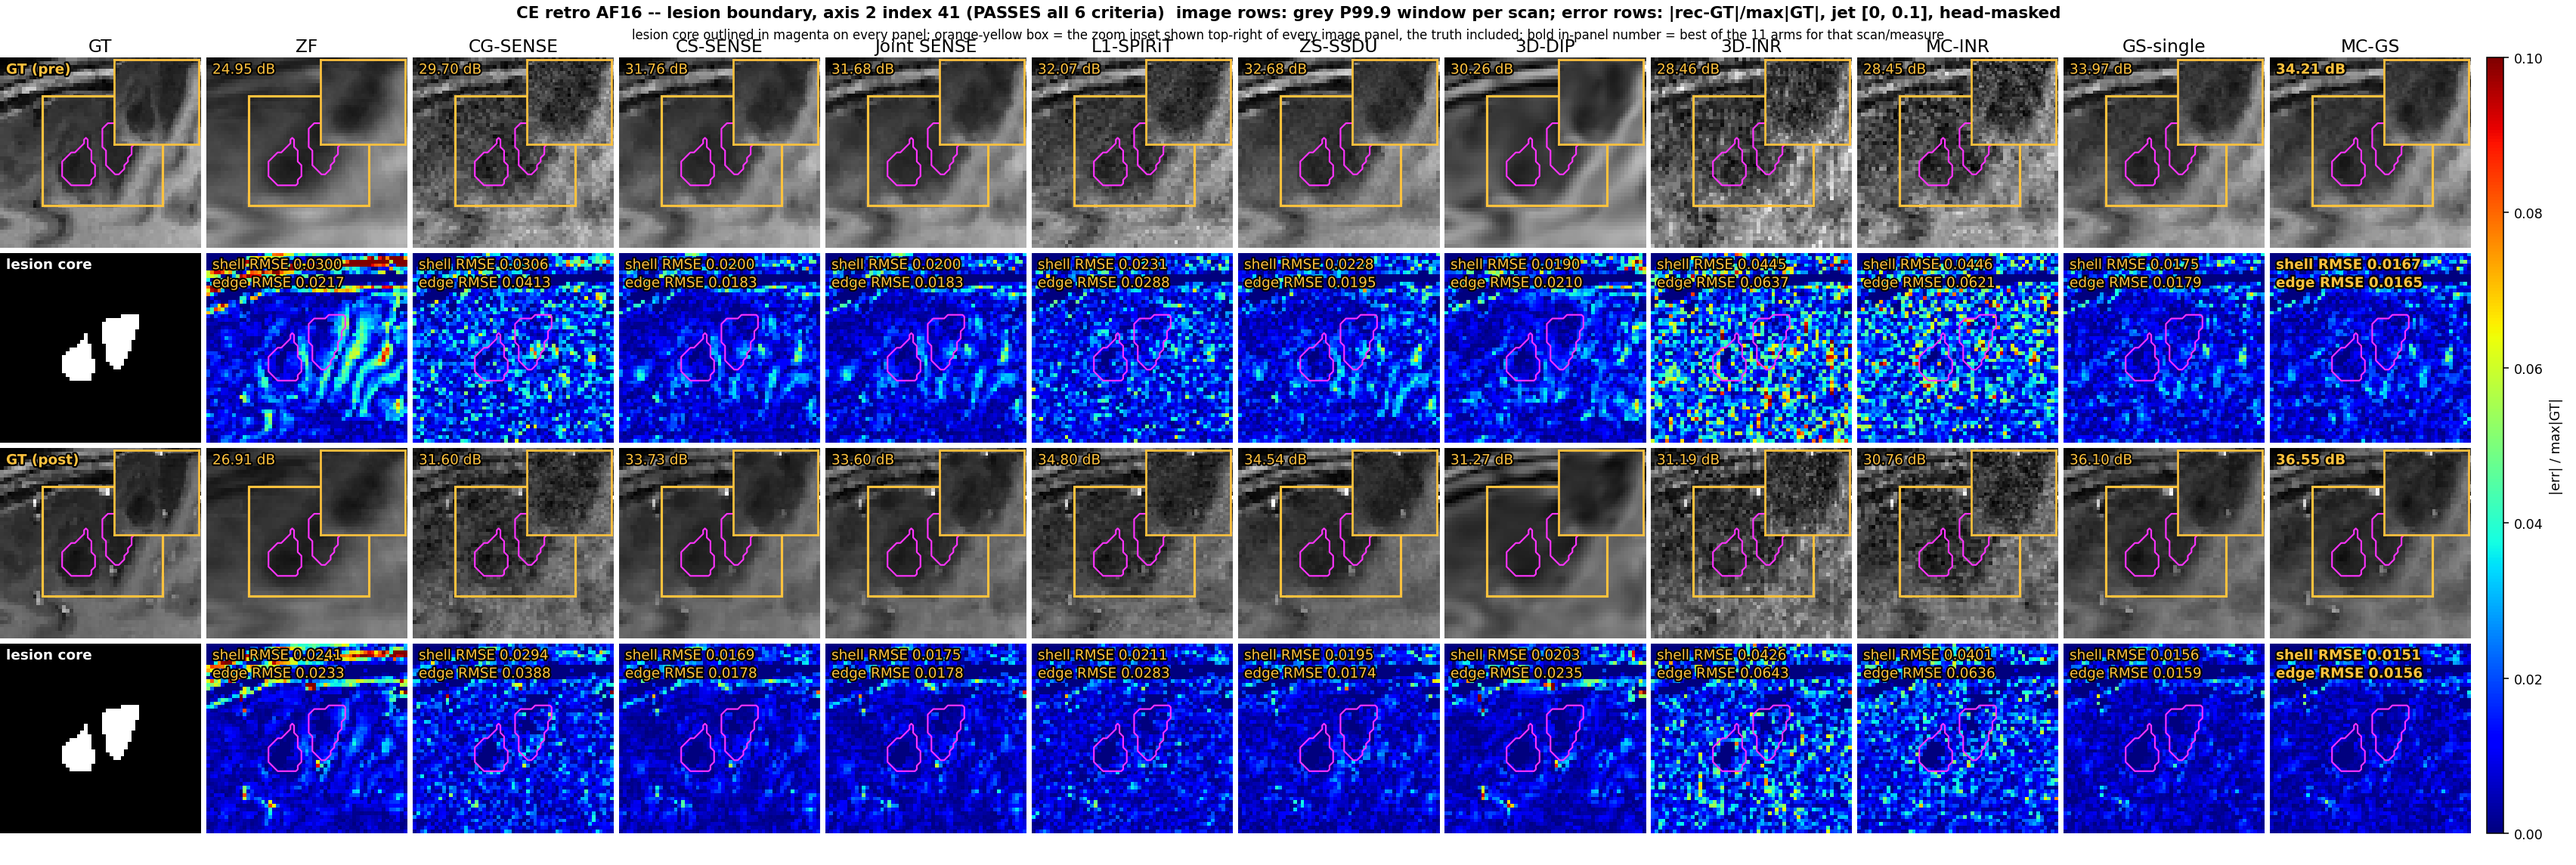
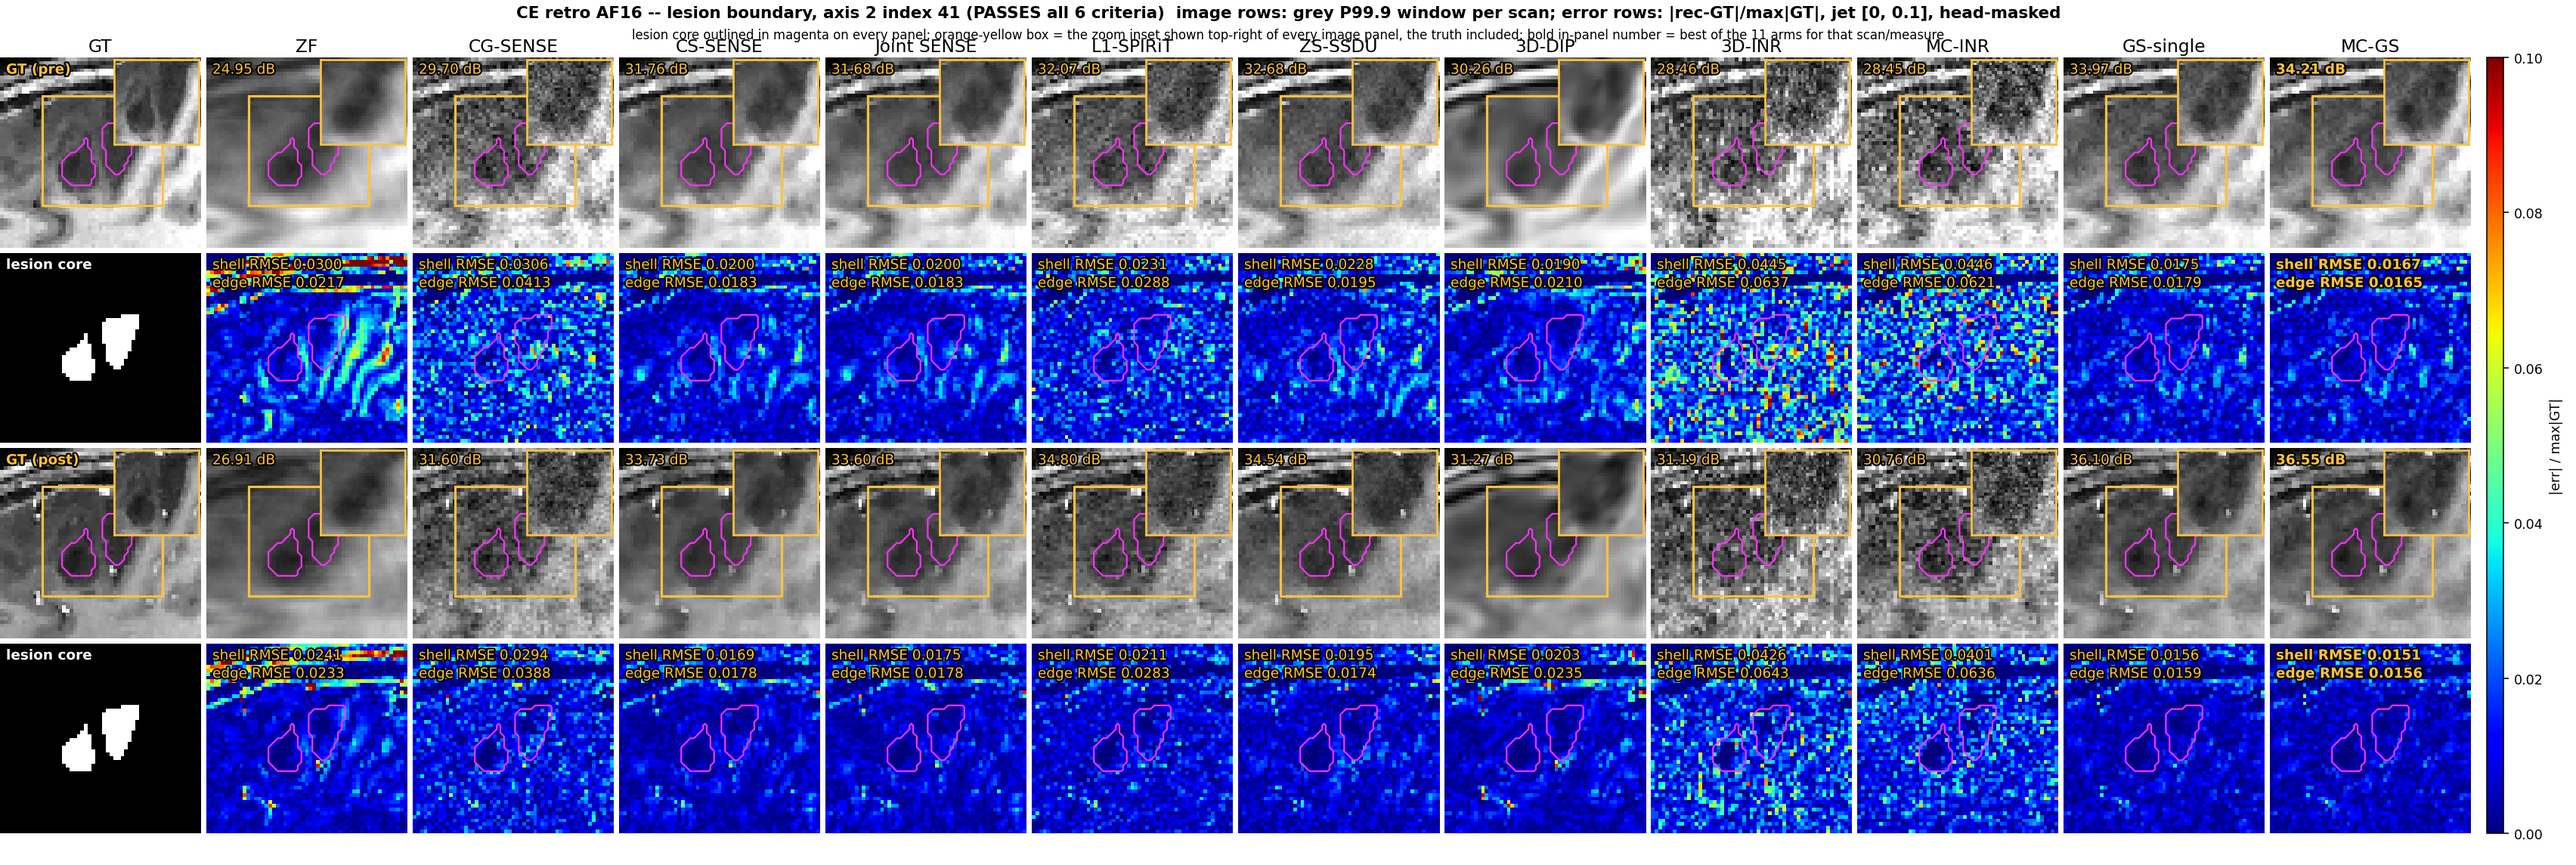
plain/enhanced: session summary of the prospective and retrospective lines, lesion figure at 1.5x

Changed region(s): [[0.0, 0.5197, 0.9642, 0.7642], [0.0, 0.0611, 0.9642, 0.3057]]

diff --git a/ce_retro_cssense_af16/scripts/best_slice_lesion.py b/ce_retro_cssense_af16/scripts/best_slice_lesion.py
@@ -73,6 +73,9 @@ K_SHELL = 2
 MIN_SHELL = 50
 MIN_HEAD = 2000
 MCGS, GSSINGLE = "gs_joint", "gs_single"
+# display only: the grey window top is divided by this, so >1 is brighter. Every metric is computed on the
+# unscaled data (user chose 1.5 for the figures of record, 2026-09-18). Override with RETRO_BRIGHTNESS.
+BRIGHTNESS = float(os.environ.get("RETRO_BRIGHTNESS", "1.5"))
 MEASURES = [("psnr", True), ("rmse", False), ("gerr", False)]   # (name, higher_is_better)
 
 
@@ -292,7 +295,7 @@ def make_figure(row, keys, gt, head, gmax, vols, core, shell):
     for r_i, (c, kind) in enumerate(panel_rows):
         y = top_in + r_i * (ph + gap)
         g2 = crop(gt[c][sl])
-        vmax_c = float(np.quantile(g2, 0.999))
+        vmax_c = float(np.quantile(g2, 0.999)) / BRIGHTNESS
         h2 = crop(head[c][sl].astype(float)) > 0.5
         for j in range(ncol):
             x = j * (pw + gap)

diff --git a/ce_retro_cssense_af16/SESSION_SUMMARY_2026-09-18.md b/ce_retro_cssense_af16/SESSION_SUMMARY_2026-09-18.md
@@ -1,0 +1,109 @@
+# 平扫/增强两条线的会话总结（2026-09-17 到 09-18）
+
+新会话先读本文件，再读 `ce_retro_cssense_af16/README.md` 与 `STATUS.md`。关键数字先重跑，重跑结果与记录不符以重跑为准。
+
+本文件总结一次会话里做完的两件事：回顾前瞻课题的既有结论，以及从零建成一条新的回顾性对比实验线。
+
+---
+
+## 1. 起点：前瞻课题的状态（CE_pre_post_contrast）
+
+数据是服务器上唯一一对真实平扫/增强多线圈原始 k 空间：UIH 3D T1 GRE，同患者同次检查，前瞻欠采 AF 5.33，**没有全采参考**。十一个臂（ZF、CG-SENSE、CS-SENSE、Joint SENSE、L1-SPIRiT、ZS-SSDU、3D-DIP、3D-INR、MC-INR、GS-single、MC-GS）都跑过，评估只能用留出 k 空间残差这种无真值代理。
+
+本会话开始时补完了种子零假设实验（同一份平扫数据只换随机种子重跑一遍，两次之差就是方法自身的随机性地板）：
+
+| 臂 | 换种子 null | 逐体素 \|差\| | 观测 增强−平扫 | 超出数据本底 +0.021 |
+|---|---|---|---|---|
+| 3D-DIP | +0.008 | 0.026 | +0.057 | +0.036 |
+| 3D-INR | +0.003 | 0.034 | +0.029 | +0.008 |
+| GS-single | +0.001 | 0.017 | +0.021 | 0.000 |
+| MC-GS | +0.001 | 0.017 | +0.024 | +0.003 |
+
+确定性的四个臂（CG/CS/Joint/L1-SPIRiT）都报 +0.021，所以 +0.02 是数据本底不是方法造的。3D-DIP 超出 +0.036，是自身地板的 4.5 倍，"假强化"成立。每臂只有一对种子，是上界不是误差棒。
+
+前瞻课题的根本限制：无真值，所有排名都是代理指标；病灶不强化，自动找强化只能抓到血管、静脉窦、脉络丛。这正是要做回顾性实验的理由。
+
+---
+
+## 2. 新线：CE_retro_cssense_af16（本分支的主体）
+
+**设计**：把这对数据的 CS-SENSE 全数据重建当真值，用真实 42 线圈 CSM 合成 k 空间，在确定性泊松盘 AF 16.00 下重跑十一个臂，用有真值的指标评估。MC-GS 是唯一的提出方法，其余十臂（含 GS-single）都是对比方法。
+
+**用户拍板的五个决定**
+1. 独立课题目录，不碰另一会话的 PDGM 线（CE_retro_gt）。
+2. 合成 k 空间加噪，σ 按原采样点残差定，不做无噪版本。
+3. 平扫和增强用同一张掩膜。
+4. 搭法：GT 协议取 jyz AF16、臂取 CE 课题、合成骨架取 retro_sim。
+5. 掩膜不加椭圆快门，四个角也采样（与 jyz 的 vdPoisMex ellipse=0 一致）。
+
+**数据合成与门**
+- 掩膜：BART poisson，种子 0，加速参数 3.883，恰好 2552 点（40832/16，AF 16.00），24×24 ACS 全采，整个矩形可采样。可按记录的命令逐位重生成。
+- 噪声：σ 平扫 1.36686 / 增强 1.44523，由真值在原掩膜上的残差定；该残差复现了 CS-SENSE 的全掩膜 kres 0.184868 / 0.149690（参考 0.18487 / 0.14969）。白质 SNR 34.445 / 33.098。
+- 四道门全过：α = 1 ± 6e-8、伴随相对误差 3.8e-7、无噪全采 CG-SENSE 头内 PSNR 69.2 / 75.9 dB、写入 σ 与记录值相差 4e-5。
+- 口径互验 14 项全 OK（logs/gauge_check.txt）。
+
+**结果（头内 PSNR，对真值）**
+
+| 臂 | 平扫 | 增强 |
+|---|---|---|
+| MC-GS | 33.623 | 35.657 |
+| GS-single | 33.429 | 35.302 |
+| ZS-SSDU | 32.096 | 33.504 |
+| L1-SPIRiT | 31.657 | 34.069 |
+| CS-SENSE | 31.031 | 32.725 |
+| Joint SENSE | 30.975 | 32.605 |
+| 3D-DIP | 29.324 | 30.235 |
+| CG-SENSE | 28.937 | 30.643 |
+| 3D-INR | 28.084 | 30.609 |
+| MC-INR | 27.444 | 29.739 |
+| ZF | 24.250 | 25.829 |
+
+- 头条余量 MC-GS − GS-single：+0.194（平扫）/ +0.355（增强）。
+- 对最强非高斯臂：+1.527（平扫，对 ZS-SSDU）/ +1.588（增强，对 L1-SPIRiT）。
+- MC-GS 在头内 PSNR、SSIM、NMSE、HFEN 四个指标上两个扫描全部第一。
+- 逐层：平扫 602/604 层、增强 604/604 层 MC-GS 第一（十一臂全算）。
+
+**强化保真（白质单位，增强 − 平扫，对真值的误差）**：MC-GS 病灶核心误差 0.000、血管强化 +2.715（真值 +2.841）、颅外背景 0.009（真值 0.007），三项都最接近真值。
+
+**病灶边界**：矢状第 41 层，MC-GS 在层内 PSNR、病灶壳层强度误差、边界梯度误差三项上，两个扫描共六个条件全部第一，次优都是 GS-single。
+
+---
+
+## 3. 必须随结论一起说的限制
+
+1. 真值是 TV 正则化的 CS-SENSE 解，CS-SENSE 家族有主场优势。数据本身部分回答了这个担心：CS-SENSE 和 Joint SENSE 只排第五第六。
+2. 真值来自 AF 5.33 的前瞻采集，PE 支撑只占 18.8%。新掩膜的 2552 个采样点里 1599 个（62.7%）在原采集中从未测过，那里是 TV 先验的外推而非数据；真值总能量的 20.3%（平扫）/ 21.9%（增强）落在原支撑之外。这些正是 HFEN、SSIM、锐度最敏感的高频位置。
+3. 合成与所有 SENSE 类臂共用同一套线圈图，且该图在支撑内是单位平方和，等于抹掉了真实采集中的线圈失配这一大误差源，对模型类方法一致有利。L1-SPIRiT 是唯一不吃线圈图的臂（它从 ACS 标定）。
+4. 病灶掩膜不是医生标注：由人在轴位拼图上指认位置，再用包围盒（z 180:224, y 75:155, x 22:82）加阈值 0.32 和脑实质约束取最大连通块。SynthSeg 只提供周围组织标签，并未识别病灶。
+5. MC-GS 的配方从 jyz AF16 三期原样搬来、不调参，而对手的 λ 在本数据真值上扫过。这对 MC-GS 偏保守。
+6. 不能写：本实验优于前瞻实验（口径不同）、任何灌注措辞、提高病灶检出（无读片实验）。
+
+---
+
+## 4. 产物位置
+
+```
+服务器课题根   /data0/congcong/code/GS/Results_20260908/CE_retro_cssense_af16
+  README.md / STATUS.md          协议、结果表、坑、复现命令
+  scripts/                       全部脚本（与本分支同步，TOPIC/scripts 是指向仓库的符号链接）
+  configs/                       MC-GS 与 GS-single 的三份配置
+  sim/                           合成 k 空间、CSM、掩膜、真值、meta（27 GB）
+  trainer/_trainer_e778bf2/      钉住的训练器快照（jyz AF16 三期同一提交）
+  recon/ logs/ figures/          重建体、评分 json、图
+  export/ce_retro_af16_20260918/ 数据包：不含原始 113 文件 28.36 GiB / 含原始，md5 全过
+看图          http://localhost:8765/ce_retro_af16/<图名>.png
+GitHub        sober235/mcgs 分支 ce-retro-cssense-af16（脚本、文档、日志 json、图）
+```
+
+正式图三张，灰度窗口按用户 09-18 的选择统一提亮 1.5 倍（仅显示，指标不受影响）：
+`ce_retro_af16_three_planes_pre_201_131_48.png`、`..._post_...`、`ce_retro_af16_enhancement.png`，
+另有病灶边界层图 `ce_retro_af16_lesion_slice_2041.png` 与掩膜图 `mask_af16.png`。
+
+---
+
+## 5. 待用户拍板
+
+1. 是否给 MC-GS 也做一次同规模的 λ/超参小网格，以对等回应"对手调参、MC-GS 不调"的质疑。
+2. 是否补第二张掩膜或第二个噪声种子，把当前的单次结果变成带误差棒的结论。
+3. 是否按 PDGM 线的版式，为本课题出一张三行十二列的"分割 + 强化"对照图。
+4. 是否打 handoff 标签并把本线合入主干。
